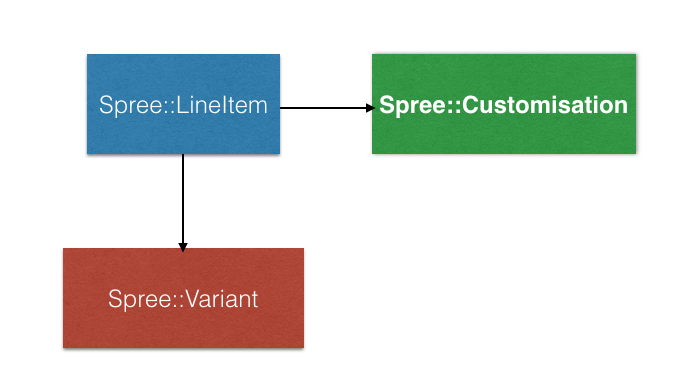
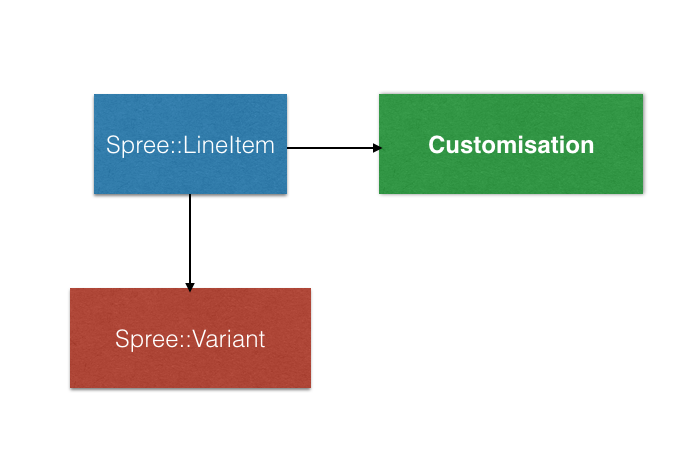
fix some feedback

Changed region(s): [[0.0925, 0.1247, 0.9559, 0.9351], [0.1542, 0.7169, 0.4009, 0.8104]]

diff --git a/talk.html b/talk.html
@@ -288,8 +288,6 @@ class: center, middle
 
 ### `Customisation`
 
-REMOVE SPREE FROM CUSTOMISATION
-
 <img src="img/li-cust.png"> </img>
 
 ???
